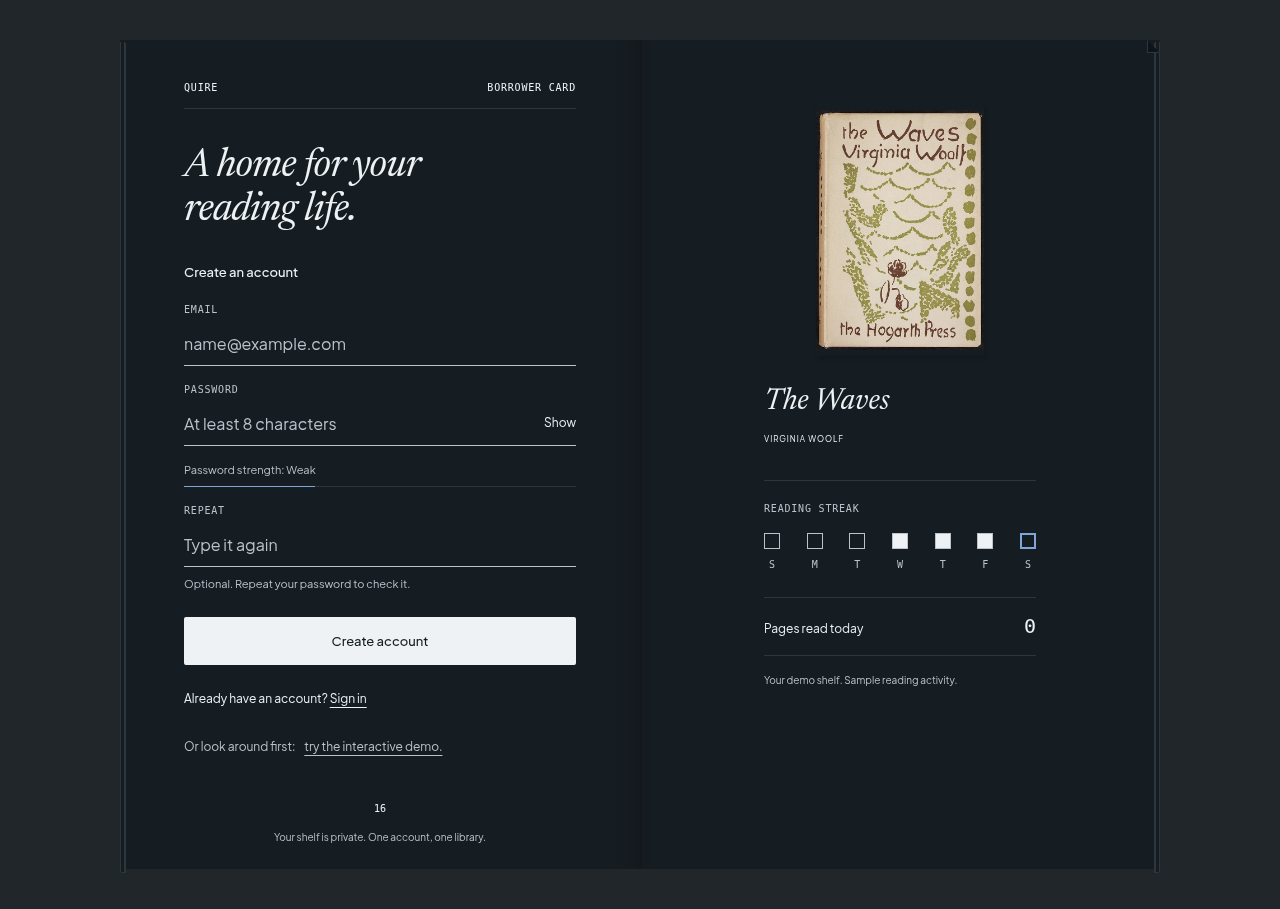
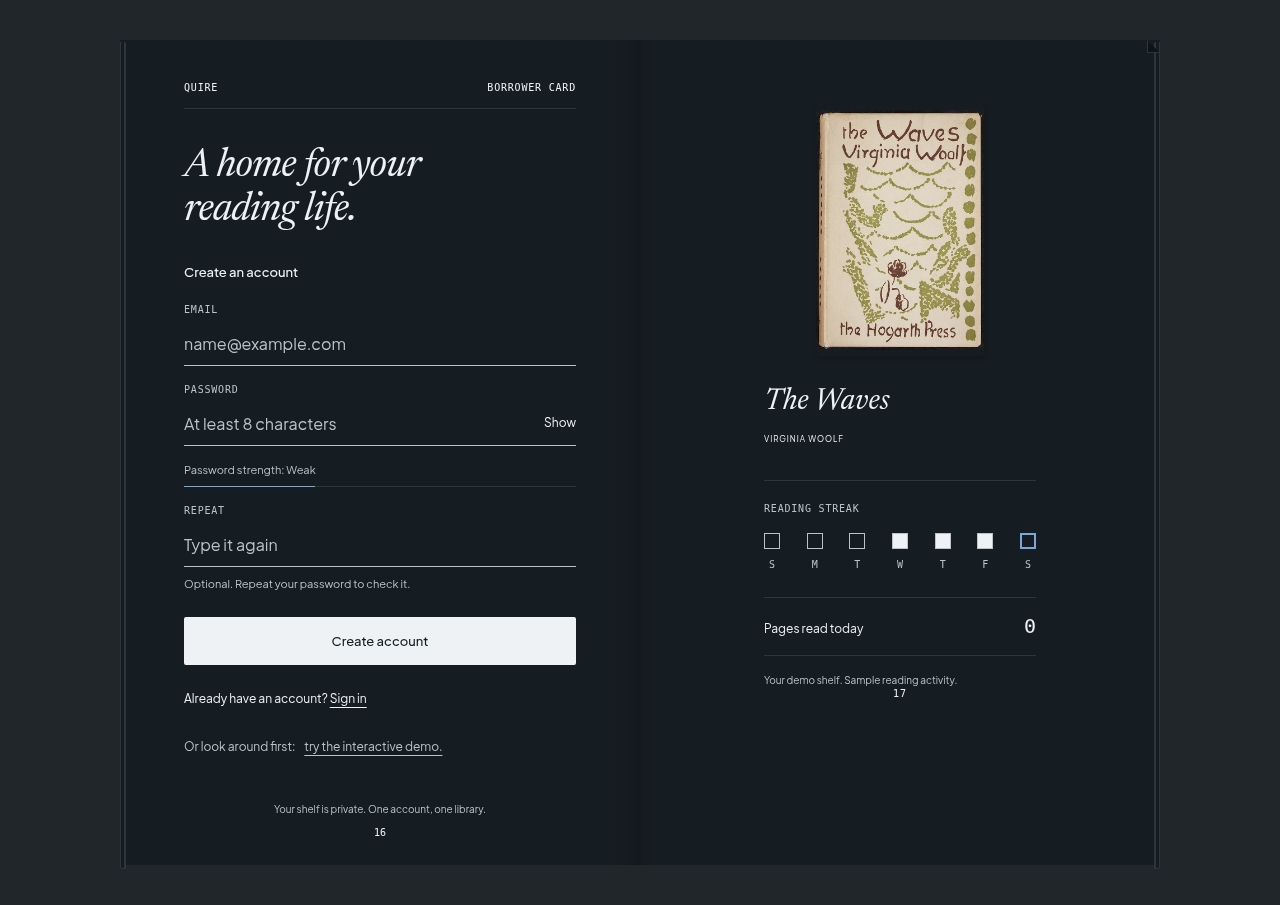
fix(auth): close both pages on the same folio baseline

diff --git a/src/styles/auth.css b/src/styles/auth.css
@@ -501,3 +501,20 @@
     clip-path: polygon(0 0, 100% 0, 100% 100%, 50% 82%, 0 100%);
   }
 }
+
+/* the folio closes the page on both sides, on the same baseline */
+.auth-page-foot {
+  display: flex;
+  flex-direction: column;
+  gap: var(--space-8);
+}
+
+.auth-folio,
+.auth-recto-folio {
+  margin: 0;
+}
+
+/* the recto sliver is meant to run off the edge; clip the page, not the bookmark */
+.auth-page {
+  overflow-x: clip;
+}

diff --git a/src/features/auth/AuthForm.tsx b/src/features/auth/AuthForm.tsx
@@ -268,8 +268,8 @@ export function AuthForm({ client }: { client: SupabaseClient }) {
             </footer>
           </div>
           <footer className="auth-page-foot">
-            <p className="auth-folio">16</p>
             <p className="auth-footnote">Your shelf is private. One account, one library.</p>
+            <p className="auth-folio">16</p>
           </footer>
         </section>
         <AuthReadingRecord />
